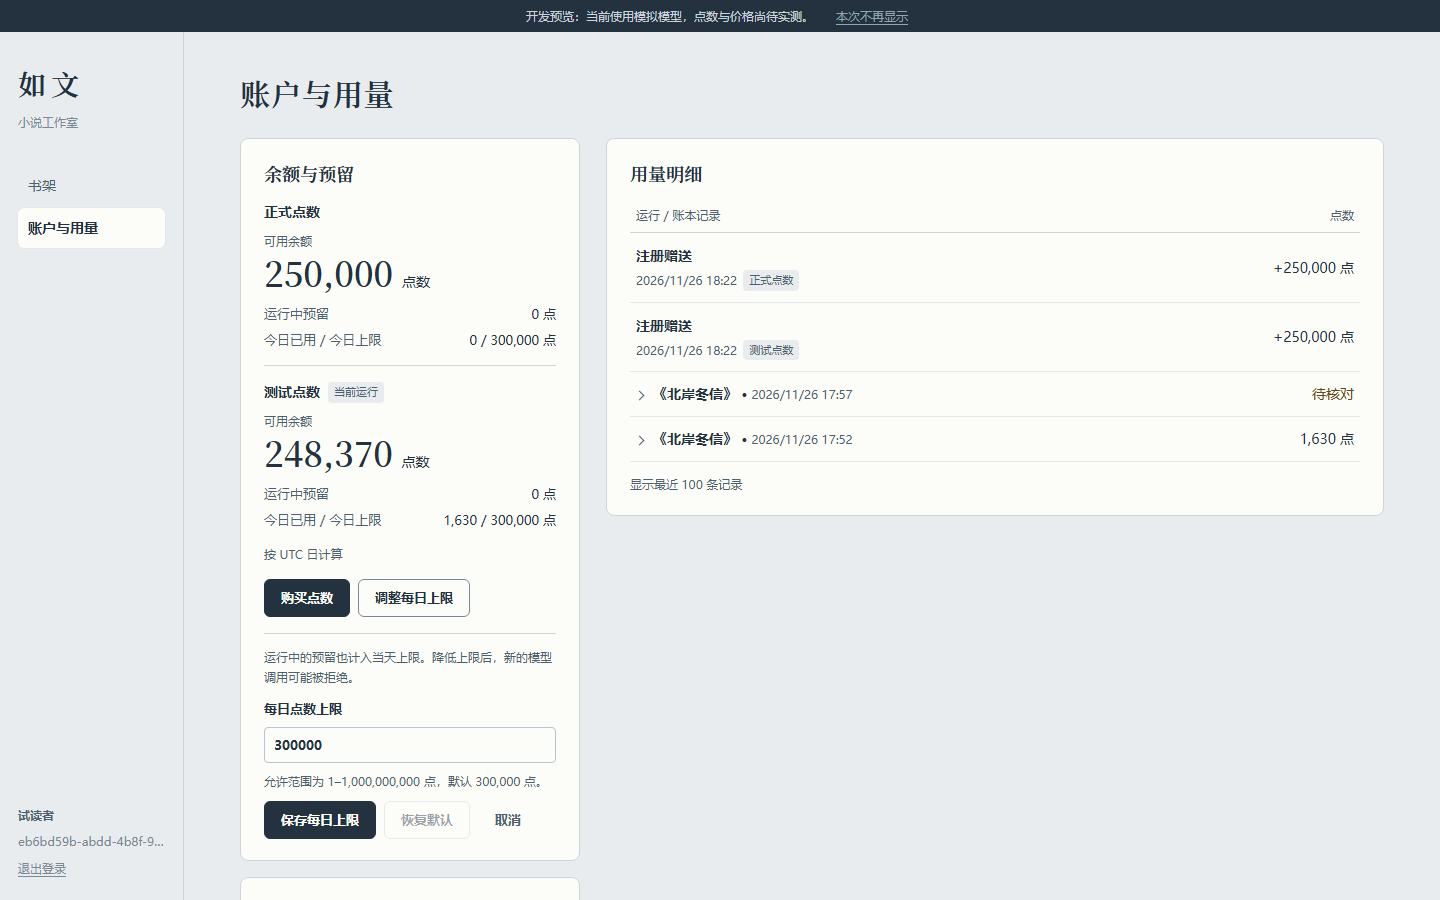
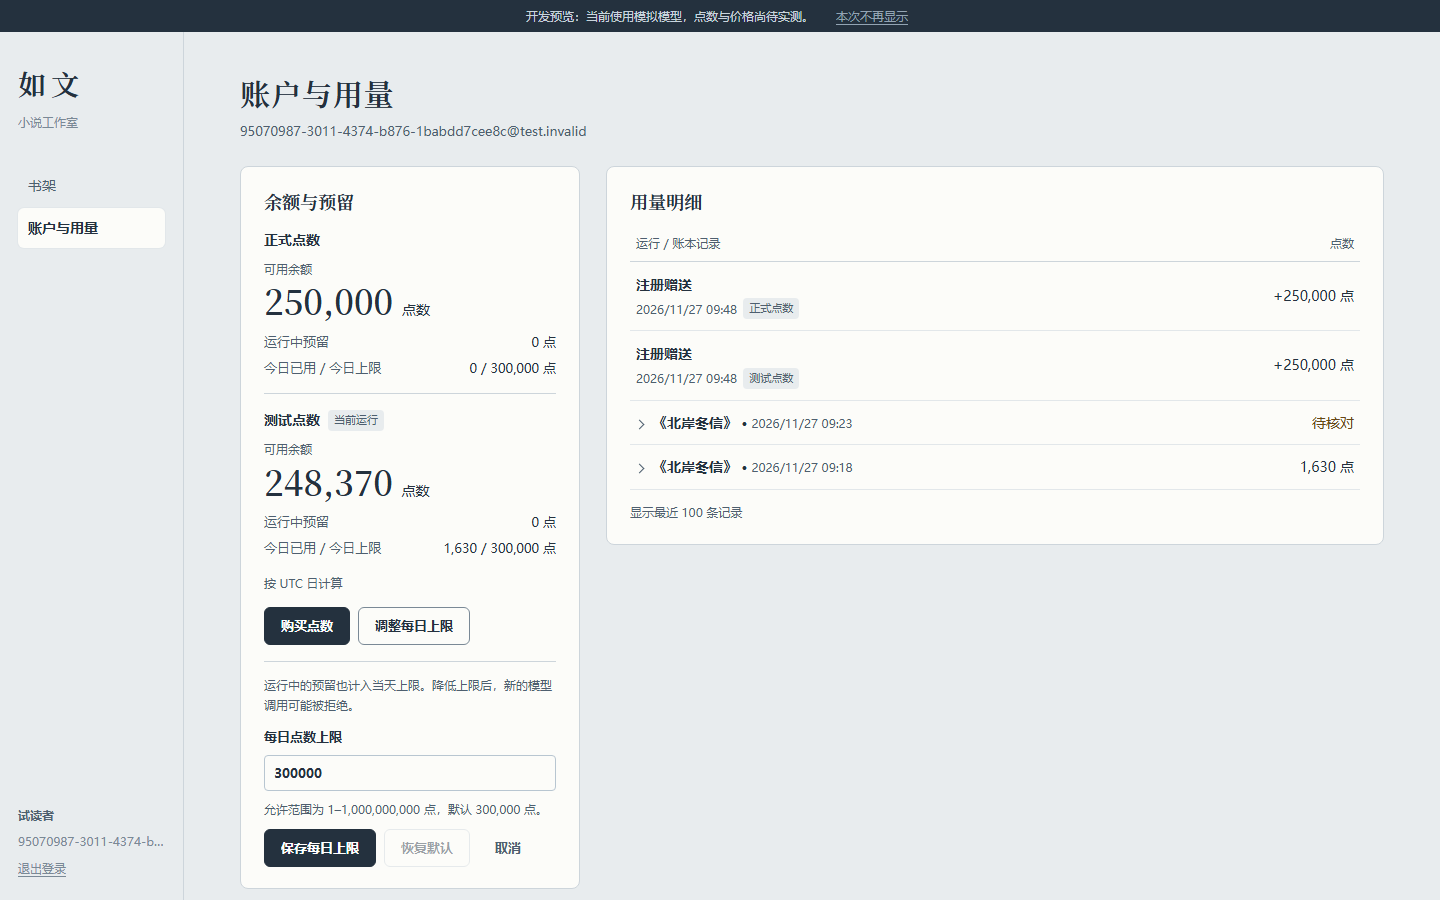
fix(web): retain account identity in the redesigned header

diff --git a/apps/web/src/components/Account.tsx b/apps/web/src/components/Account.tsx
@@ -4,7 +4,11 @@ import { confirmation, accountCopy as copy } from "../copy/zh-CN.ts";
 import { Button } from "../ui/Button.tsx";
 import { useConfirm } from "../ui/ConfirmDialog.tsx";
 import { AccountUsage } from "./account/AccountUsage.tsx";
-import { type AccountData, accountError } from "./account/account-data.ts";
+import {
+  type AccountData,
+  accountError,
+  accountText,
+} from "./account/account-data.ts";
 import { BalanceCard } from "./account/BalanceCard.tsx";
 import { PurchaseDialog } from "./account/PurchaseDialog.tsx";
 import { post } from "./client.ts";
@@ -34,7 +38,18 @@ export function Account() {
   return (
     <main className="page-content account-page">
       <header className="page-heading account-heading">
-        <h1>{copy.heading}</h1>
+        <div>
+          <h1>{copy.heading}</h1>
+          {data && (
+            <p>
+              <SafeMarkdown
+                plain
+                inline
+                content={accountText(data.user.email)}
+              />
+            </p>
+          )}
+        </div>
       </header>
       {error && (
         <p className="account-warning" role="alert">

diff --git a/apps/web/src/components/account/account-data.ts b/apps/web/src/components/account/account-data.ts
@@ -26,7 +26,7 @@ export type AccountData = Pick<
   Projection,
   "bank" | "banks" | "daily" | "frozenAt" | "sandboxEnabled" | "plans"
 > & {
-  user: { id: string };
+  user: { id: string; email: string };
   usage: UsageRow[];
   ledger: LedgerRow[];
   reservations: Pick<

diff --git a/apps/web/public/studio.css b/apps/web/public/studio.css
@@ -4185,6 +4185,12 @@ textarea {
 .account-heading h1 {
   margin: 0;
 }
+.account-heading p {
+  margin-top: 6px;
+  color: var(--ink-2);
+  font-size: 13px;
+  overflow-wrap: anywhere;
+}
 .account-grid {
   display: grid;
   grid-template-columns: 340px minmax(0, 1fr);

diff --git a/docs/reports/frontend-redesign/09.md b/docs/reports/frontend-redesign/09.md
@@ -2,7 +2,7 @@
 
 ## 做了什么
 
-- 左栏采用原型的 340px 卡片布局。正式点数与测试点数各自显示可用余额、运行中预留和 UTC 今日额度。调整上限在卡片内展开，支持允许范围校验、取消和恢复默认。
+- 页头保留当前登录邮箱。左栏采用原型的 340px 卡片布局。正式点数与测试点数各自显示可用余额、运行中预留和 UTC 今日额度。调整上限在卡片内展开，支持允许范围校验、取消和恢复默认。
 - 右栏按运行展开岗位明细，使用各组最早的岗位时间。空扣点显示「待核对」，岗位扣点账本行去重。可展开待核对预留，已处理的核对保留结果和理由。
 - 购买在对话框内选择测试点数包。创建沙箱结账时账本和余额保持原值，确认模拟支付后才增加测试点数。不可结账及冻结状态沿用共享提示。登出所有设备仍由 ConfirmDialog 确认。
 - 原型对比：保留两列、纸色卡片、宋体点数和岗位色。勘误要求将月度和单一余额改为两个点数池及 UTC 当日额度，运行标题改为项目名与实际时间，省略章节号、运行状态和预留时间。原型中的设备地名缺少数据，改为当前浏览器的登录状态。
